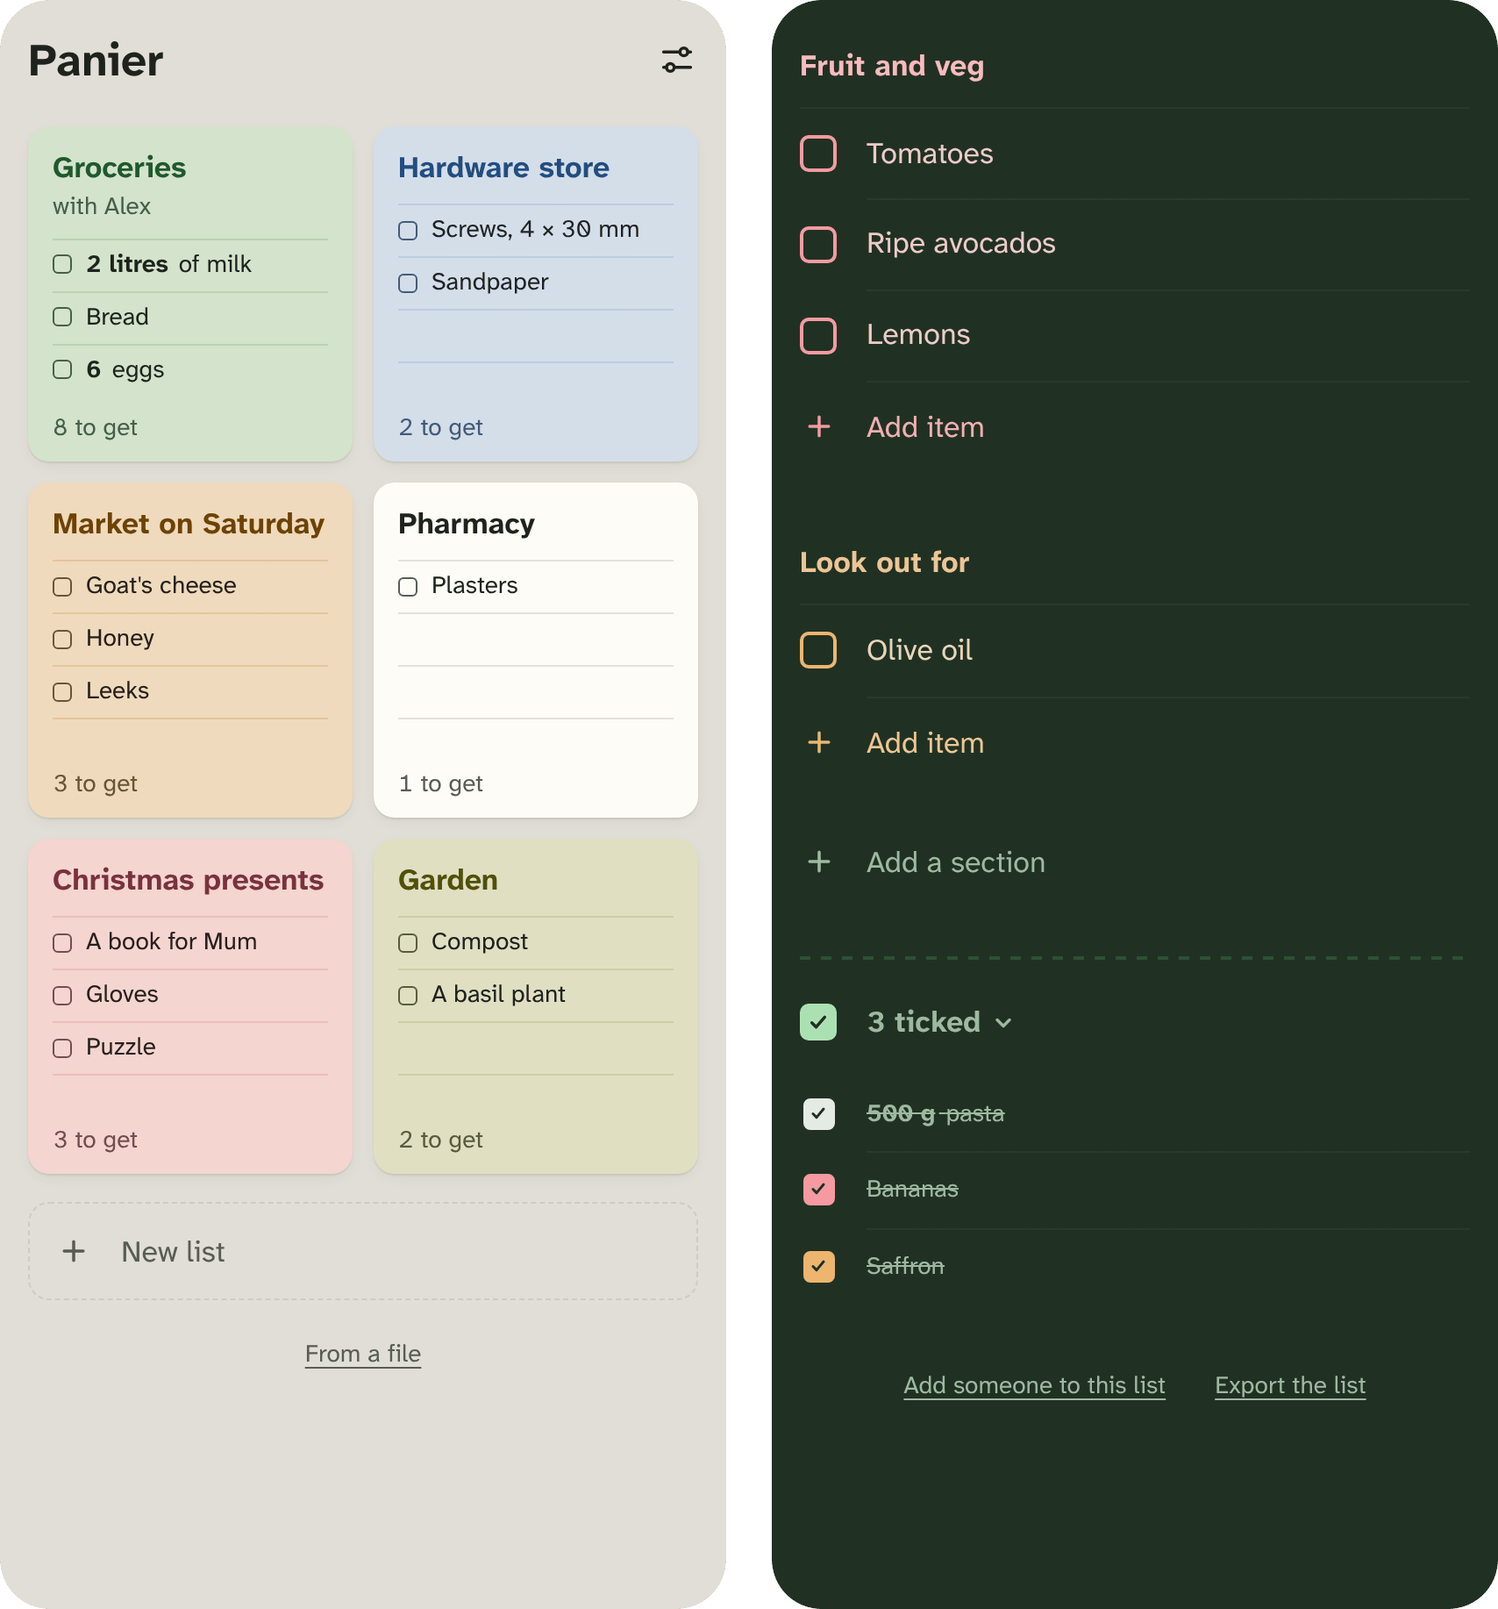
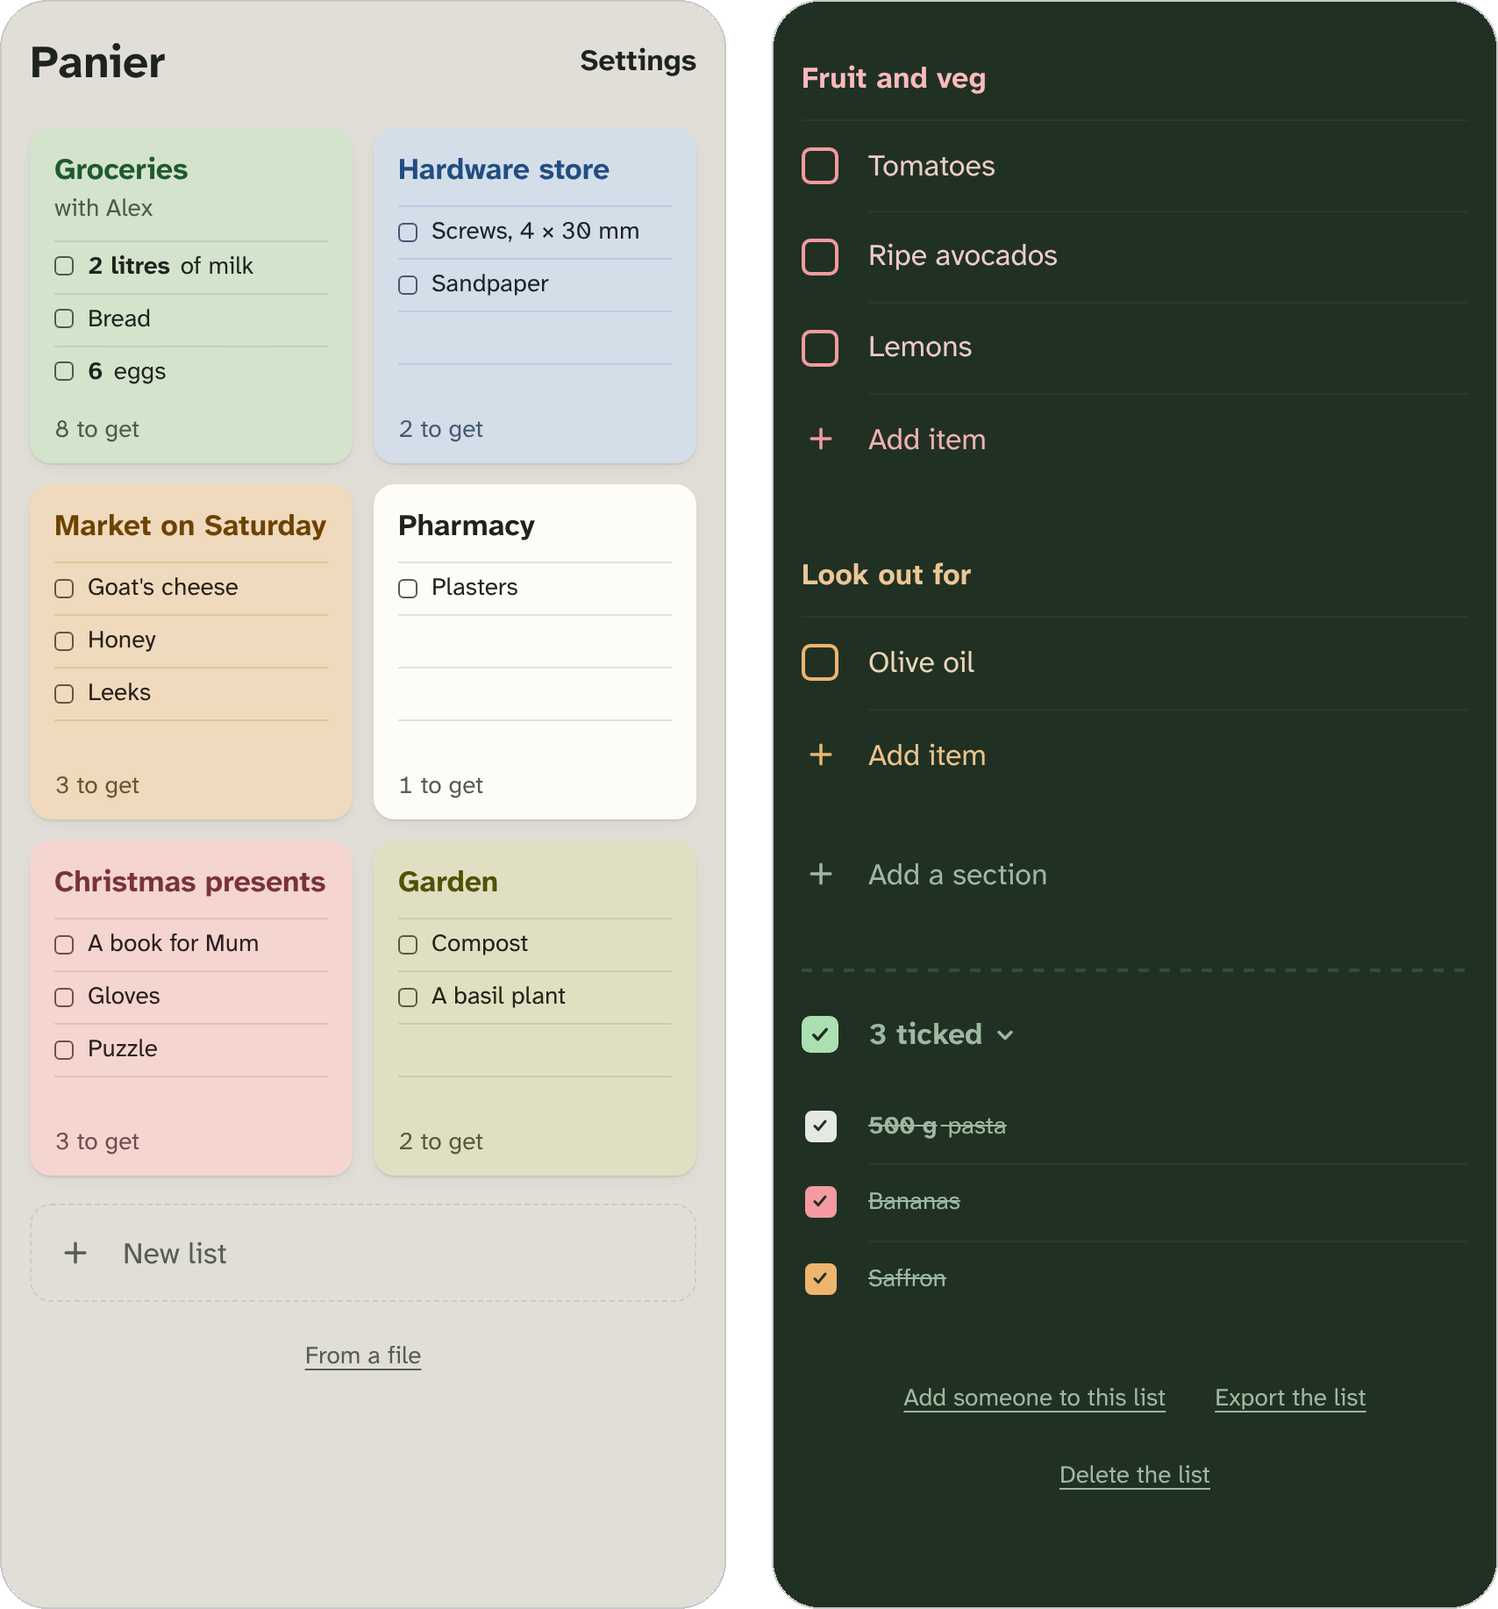
Lists and Settings in words, Delete the list at a list's foot, the old version cleared
- The headers say Lists and Settings in words, as the guide prefers,
  rather than two icons; their icons go from the page.
- Delete the list, at the foot of each list, asks as the lists page does,
  so a screen reader on a phone can delete a list without dragging it.
- Every list has come back from the old version, so what it left goes:
  migration v3 deletes its Durable Object class and their data on
  Cloudflare, each phone clears its old storage, and the reader no longer
  looks for its .txt export. Plain-text lists still read.
- The README picture shows the app as it is now.

diff --git a/web/index.html b/web/index.html
@@ -36,14 +36,12 @@
   <symbol id="i-plus" viewBox="0 0 20 20"><path d="M10 4v12M4 10h12" vector-effect="non-scaling-stroke"/></symbol>
   <symbol id="i-cross" viewBox="0 0 20 20"><path d="M5.5 5.5l9 9M14.5 5.5l-9 9" vector-effect="non-scaling-stroke"/></symbol>
   <symbol id="i-back" viewBox="0 0 20 20"><path d="M7.5 4.4L3.1 8.75l4.4 4.35M3.75 8.75h8.75a4.4 4.4 0 0 1 0 8.75H10" vector-effect="non-scaling-stroke"/></symbol>
-  <symbol id="i-settings" viewBox="0 0 20 20"><path d="M3 6h8.5M15.5 6H17M3 14h1.5M8.5 14H17" vector-effect="non-scaling-stroke"/><circle cx="13.5" cy="6" r="2" vector-effect="non-scaling-stroke"/><circle cx="6.5" cy="14" r="2" vector-effect="non-scaling-stroke"/></symbol>
-  <symbol id="i-lists" viewBox="0 0 20 20"><path d="M6.5 4.5V3.75c0-.69.56-1.25 1.25-1.25h7.5c.69 0 1.25.56 1.25 1.25v10c0 .69-.56 1.25-1.25 1.25h-.75M4.75 5.5h7.5c.69 0 1.25.56 1.25 1.25v10c0 .69-.56 1.25-1.25 1.25h-7.5c-.69 0-1.25-.56-1.25-1.25v-10c0-.69.56-1.25 1.25-1.25z" vector-effect="non-scaling-stroke"/></symbol>
 </svg>
 
 <main class="wrap" id="app" hidden>
   <div class="list-top">
     <h1 class="list-head"><span class="list-name" id="list-name" role="button" tabindex="0" data-fk="list-name"></span></h1>
-    <button type="button" class="ib lists-btn" id="lists-open" aria-label="Lists" title="Lists" data-fk="lists-open"><svg class="icon" width="22" height="22" aria-hidden="true"><use href="#i-lists"/></svg></button>
+    <button type="button" class="head-btn" id="lists-open" data-fk="lists-open">Lists</button>
   </div>
   <div id="list"></div>
   <form class="add-sec" id="add-sec-form" autocomplete="off">
@@ -67,6 +65,7 @@
   <footer class="foot">
     <button type="button" class="linkbtn" id="pair-open">Add someone to this list</button>
     <button type="button" class="linkbtn" id="export-btn">Export the list</button>
+    <button type="button" class="linkbtn" id="delete-open">Delete the list</button>
   </footer>
 </main>
 
@@ -74,7 +73,7 @@
 <main class="wrap lists" id="lists" hidden>
   <div class="lists-top">
     <h1>Panier</h1>
-    <button type="button" class="ib lists-btn" id="settings-open" aria-label="Settings" title="Settings" data-fk="settings-open"><svg class="icon" width="22" height="22" aria-hidden="true"><use href="#i-settings"/></svg></button>
+    <button type="button" class="head-btn" id="settings-open" data-fk="settings-open">Settings</button>
   </div>
   <p class="lists-msg" id="lists-msg" hidden></p>
   <!-- The lists in a grid, then a blank strip to start another on -->

diff --git a/web/app.css b/web/app.css
@@ -111,10 +111,14 @@ main.wrap { padding-block: 16px 104px; display: flex; flex-direction: column; ga
 :is(.list-head, .sec-head, .item) { -webkit-user-select: none; user-select: none; -webkit-touch-callout: none; }
 .list-top { display: flex; align-items: flex-start; gap: 4px; margin: -4px 0 0; }
 .list-head { flex: 1; min-width: 0; margin: 0; display: flex; font-size: 1.625rem; line-height: 1.4; color: var(--title); }
-/* The way to the lists page, at the right of the list's name: two sheets, one on the other */
-.lists-btn { flex: none; margin: 0 -10px 0 0; color: var(--title); }
+/* At the right of a page's title, in words, the way to what's around it: the lists page
+   from a list, Settings from the lists page */
+.head-btn {
+  flex: none; height: 44px; margin: 0 -12px 0 0; padding: 0 12px; border: 0; border-radius: 999px; background: none;
+  color: var(--title); font-weight: 700; cursor: pointer;
+}
 /* While the name is edited, it has the whole row */
-.list-top.editing .lists-btn { display: none; }
+.list-top.editing .head-btn { display: none; }
 .list-name { flex: 1; min-width: 0; padding: 4px 0; overflow-wrap: anywhere; cursor: text; outline: none; border-radius: 5px; }
 .list-name.editing { -webkit-user-select: text; user-select: text; box-shadow: inset 0 -2px 0 currentColor; border-radius: 0; }
 #list { display: flex; flex-direction: column; gap: 28px; }
@@ -222,7 +226,7 @@ main.wrap { padding-block: 16px 104px; display: flex; flex-direction: column; ga
 .sug-x-cell { display: flex; flex: none; }
 .sug-x { width: 48px; padding: 0; border: 0; background: none; color: var(--muted); display: grid; place-items: center; cursor: pointer; }
 .sug-x-cell[aria-selected="true"] .sug-x { color: var(--ink); box-shadow: inset 0 0 0 2px var(--ink); border-radius: 12px; }
-@media (hover: hover) { .sugopt:hover, .ib:hover { background-color: var(--press); } .bin:hover, .sug-x:hover { color: var(--danger); } }
+@media (hover: hover) { .sugopt:hover, .ib:hover, .head-btn:hover { background-color: var(--press); } .bin:hover, .sug-x:hover { color: var(--danger); } }
 .sugopt .t { color: var(--ink); overflow-wrap: anywhere; }
 .sugopt mark { background: none; color: inherit; font-weight: 700; }
 

diff --git a/web/md.js b/web/md.js
@@ -13,7 +13,7 @@
 //
 // Reading is lenient, so lists from elsewhere come in too: any heading below "#" is a
 // section, any bullet or numbered line an item, and so is a plain line, unless items
-// follow it, as section names did in the text files the first export wrote.
+// follow it, when it names a section, as plain-text lists often do.
 
 // Colours by name in files, by id in the app.
 const COLOURS = { ess: "ink", green: "green", teal: "teal", blue: "blue", long: "indigo", plum: "plum", rose: "rose", look: "amber", olive: "olive" };
@@ -39,8 +39,6 @@ const COLOUR = /\s*<!--\s*([a-z]+)\s*-->\s*$/i;
 const TASK = /^\s*(?:[-*+]|\d+[.)])\s+\[([ xX])\]\s+(.*)$/;
 const BULLET = /^\s*(?:[-*+•]|\d+[.)])\s+(.*)$/;
 const NOISE = /^\s*(?:>|\||<!--|-{3,}\s*$|\*{3,}\s*$|_{3,}\s*$)/; // quotes, tables, comments, rules
-const DATED = /,\s+\d{1,2}(?:er)?\s+\S+\s+\d{4}$/; // the first export's title: "Shopping list, 12 November 2026"
-const BOUGHT = /^(?:bought before|déjà achetés)$/i; // and its last section
 
 function named(s) {
   const m = COLOUR.exec(s);
@@ -94,18 +92,8 @@ export function fromMarkdown(text) {
     if (it) { add(it); continue; }
     if (NOISE.test(line)) continue;
     const plain = one(line), after = next(i);
-    if (!lists.length && DATED.test(plain) && !(after && itemOf(after))) { newList(plain.replace(DATED, ""), null); continue; }
     if (after && itemOf(after) && plain.length <= 60) { newSection(named(plain).name, named(plain).color); continue; }
     add({ text: plain, checked: false });
-  }
-  // The first export listed what was bought before in a section of its own: those items
-  // go back into the first section, still ticked.
-  for (const l of lists) {
-    const bought = l.sections.filter(s => s.name && BOUGHT.test(s.name) && s.items.every(i => i.checked));
-    if (!bought.length) continue;
-    l.sections = l.sections.filter(s => !bought.includes(s));
-    if (!l.sections.length) l.sections.push({ name: null, color: null, items: [] });
-    for (const s of bought) l.sections[0].items.push(...s.items);
   }
   return lists.filter(l => l.name || l.sections.some(s => s.items.length || s.name));
 }

diff --git a/web/lists.js b/web/lists.js
@@ -136,11 +136,12 @@ function moveSheet(lid, dir) {
   if (el) el.focus();
 }
 
-// A list is deleted only here, on the lists page, dropped on the zone at the foot or with
-// the Delete key, and only once asked. From this phone, the others keep it and its link
+// A list is deleted only once asked: on the lists page, dropped on the zone at the foot or
+// with the Delete key, or with Delete the list, at the foot of the list itself, which a
+// screen reader on a phone can reach. From this phone, the others keep it and its link
 // brings it back, and undo does too, until the app closes. For everyone, it asks again,
 // as nothing brings it back.
-function askDelete(lid) {
+export function askDelete(lid) {
   const e = store.lists().find(x => x.lid === lid);
   if (!e) return;
   const name = e.name || t("Shopping list"), w = e.with, others = !!(w && (w.names.length || w.nameless));

diff --git a/web/store.js b/web/store.js
@@ -16,6 +16,10 @@
 
 const INDEX = "panier2"; // this phone's id and name, and its lists
 const ENTRY = "panier2:"; // one list, by its id on this phone
+// The version before several lists kept its one list, key included, under these names.
+// Every list has come back by import, so what it left is cleared; this line can go once
+// every phone has opened this version.
+try { for (const k of ["panier", "panier-drafts", "panier-basket-open", "panier-dragged-once", "panier-style"]) localStorage.removeItem(k); } catch (_) {}
 const FORMAT = 1; // what this app reads; a list can ask for more with "@list" "format"
 const MAX_UNDO = 100;
 const text = new TextEncoder();

diff --git a/web/app.js b/web/app.js
@@ -13,6 +13,7 @@ import { openPair, peopleChanged } from "./share.js";
 import { keepList } from "./settings.js";
 
 $("#lists-open").addEventListener("click", showLists);
+$("#delete-open").addEventListener("click", () => lists.askDelete(state.lid)); // which shows the lists page once it's gone
 // Undo is the list's on a list, and on the lists page brings back a list deleted from this phone.
 const undo = () => (state.view === "lists" ? lists.undoRemove() : list.undo());
 const redo = () => { if (state.view === "list") list.redo(); };

diff --git a/worker/index.js b/worker/index.js
@@ -141,10 +141,6 @@ async function createList(req, env) {
   return created ? new Response(null, { status: 201, headers: HEADERS }) : text(409, "list already exists");
 }
 
-// Lists stored by the version before ListV2. Nothing reaches them any more; the class
-// stays until a migration deletes it, with their data, once every list has been restored.
-export class List extends DurableObject {}
-
 export class ListV2 extends DurableObject {
   constructor(ctx, env) {
     super(ctx, env);

diff --git a/web/i18n.js b/web/i18n.js
@@ -30,6 +30,7 @@ const FR = {
   "Data": "Données",
   "Keep them on this phone": "Les garder sur ce téléphone",
   "Export the list": "Exporter la liste",
+  "Delete the list": "Supprimer la liste",
   "Export all lists": "Exporter toutes les listes",
   "Set up another phone": "Préparer un autre téléphone",
   "You": "Vous",

diff --git a/docs/using.md b/docs/using.md
@@ -14,18 +14,18 @@ Everything the app does, in detail. The [README](../README.md) has the short ver
 
 A phone holds any number of lists, each shared with its own people. The app opens on the list last used.
 
-- **The lists page** is reached with the sheets at the top right of a list, or the phone's back gesture. The lists lie there side by side, two to a row, three on a wider screen, each a sheet of its own paper, lying on a desk a shade deeper: its name, who else has it, the first three things to get, and how many there are, as this phone last saw them. Lists not on screen catch up as the page shows.
+- **The lists page** is reached with *Lists*, at the top right of a list, or the phone's back gesture. The lists lie there side by side, two to a row, three on a wider screen, each a sheet of its own paper, lying on a desk a shade deeper: its name, who else has it, the first three things to get, and how many there are, as this phone last saw them. Lists not on screen catch up as the page shows.
 - **Open** a list with a tap.
 - **New list:** type a name on the blank strip under the sheets; the new list opens ready to write on. The server makes it on the strength of a list this phone already has; if it won't, it asks for the setup code.
 - **Move** a list: hold it, then drag it to its new place. From a keyboard, Alt and an arrow move it one place earlier or later.
-- **Delete** a list: drag it onto the zone that appears at the foot, or press Delete on it from a keyboard. Lists are deleted only here, and only once asked. *Delete* takes it off this phone: the others keep it, its link brings it back, and so does Undo, at the bottom right. *Delete for everyone*, under it, asks again, then closes the list on the server: other phones say *List closed*. That can't be undone.
+- **Delete** a list: drag it onto the zone that appears at the foot, press Delete on it from a keyboard, or use *Delete the list*, at the foot of the list itself. It always asks first. *Delete* takes it off this phone: the others keep it, its link brings it back, and so does Undo, at the bottom right. *Delete for everyone*, under it, asks again, then closes the list on the server: other phones say *List closed*. That can't be undone.
 - **Settings** is at the top right of the lists page.
 
 ## The page
 
 The list is written on the page itself, like paper: one left edge, ruled lines between items and under section names, and an underline where you type. Only what is lifted off the page has a shadow: something being dragged, the undo button, the sheets.
 
-- **The list's name** is the title at the top, *Shopping list* to start with. Tap it to rename it. It also names the exported file. At its right, the sheets lead to the lists page.
+- **The list's name** is the title at the top, *Shopping list* to start with. Tap it to rename it. It also names the exported file. At its right, *Lists* leads to the lists page.
 - **The list's colour.** While you rename the list, colours show under its name: white and eight hues. The paper is warm paper dyed with the colour, the ruled lines a deeper dye, the title a deep shade of it, and the writing leans its way. The browser's bars follow, and the app opens in the colour without a flash of white.
 - **The eight colours weigh the same.** Each is a single hue, and every tone of it, from paper to tick box, is that hue at a lightness set by what it's for, so no colour shouts or fades beside another, in light or dark.
 - Every phone sees the name and colour, and undo puts the old ones back.
@@ -107,7 +107,7 @@ Lists go out and come in as Markdown checklists, readable in any notes app:
 
 - **Export the list**, at the bottom of a list, saves it as a `.md` file named after it.
 - **Export all lists**, in Settings, saves every list in one file, each under its own `#`.
-- **From a file**, on the lists page, brings in a list, or several from one file. It reads any Markdown checklist: other bullets, numbered lines, headings of any level, plain lines. It also reads the `.txt` files the earlier *Export the list* saved. Items bought before come in as suggestions, not ticked.
+- **From a file**, on the lists page, brings in a list, or several from one file. It reads any Markdown checklist: other bullets, numbered lines, headings of any level, plain lines, where a line followed by items names a section. Items bought before come in as suggestions, not ticked.
 - **Pasting several lines** into *Add item* adds one item per line, in that section, in one step to undo. Names already on the list are left as they are.
 
 ## People

diff --git a/docs/roadmap.md b/docs/roadmap.md
@@ -25,7 +25,7 @@ From now on, stored data only gains new kinds of record, under `@`, which older 
 
 ### Several lists
 
-The lists page is the surface the lists lie on, side by side, each list a small sheet of its own paper, with its name, who else has it, the first three things left to get, and how many there are. Lists are deleted only there, and only once asked. It is reached from the *Lists* control at the right of a list's header, or the back gesture, and it holds Settings. The app opens on the last list used.
+The lists page is the surface the lists lie on, side by side, each list a small sheet of its own paper, with its name, who else has it, the first three things left to get, and how many there are. Lists are deleted there, or at the foot of the list itself, and only once asked. It is reached from the *Lists* control at the right of a list's header, or the back gesture, and it holds Settings. The app opens on the last list used.
 
 Only the list on screen keeps a live connection. The others catch up when the lists page shows, and send what they have waiting when the connection returns.
 
@@ -44,7 +44,7 @@ A phone that holds a list on a server may create more lists there, proving it wi
 - [ ] Ripe avocados
 ```
 
-`#` is the list's name, `##` each section in order, `- [ ]` an item to get, `- [x]` one bought before, kept under its section so unticking puts it back there. Colours ride in comments after the headings, which Markdown hides: they work for several lists in one file, which a block at the top couldn't. *Export all lists* writes one file with a `#` per list. The reader also takes any Markdown checklist, plain lines, and the `.txt` files the earlier *Export the list* wrote. Pasting several lines into *Add item* adds one item per line.
+`#` is the list's name, `##` each section in order, `- [ ]` an item to get, `- [x]` one bought before, kept under its section so unticking puts it back there. Colours ride in comments after the headings, which Markdown hides: they work for several lists in one file, which a block at the top couldn't. *Export all lists* writes one file with a `#` per list. The reader also takes any Markdown checklist and plain lines. Pasting several lines into *Add item* adds one item per line.
 
 ### More people
 
@@ -73,4 +73,4 @@ The `next` branch deploys to `panier-next`, a Worker of its own on the same `wor
 1. Pass the import gate in the test copy, with every export restored there.
 2. Merge `next` into `main`. Each phone opens on an empty lists page.
 3. One person imports each export, then shares each list with the others. Save the new links.
-4. Once every list is back, a Wrangler migration deletes the old Durable Object class and its data. Until then, reverting the merge brings the old Panier back as it was.
+4. Once every list is back, a Wrangler migration deletes the old Durable Object class and its data, and each phone clears what the old version left. Until then, reverting the merge brings the old Panier back as it was. Done: every list came back, so `v3` in `wrangler.jsonc` deleted the old class.

diff --git a/README.md b/README.md
@@ -56,7 +56,7 @@ Then, on the phones:
 - **Move:** hold an item, or a section's name, for half a second, then drag.
 - **Sections:** tap a section's name to rename it or change its colour. *Add a section* is below the last one.
 - **The list:** tap its name to rename it or choose its paper's colour.
-- **Lists:** the sheets at the top right of a list, or the back gesture, lead to the lists page: tap a list to open it, *New list* to start one, hold one to move it, or drop it at the foot to delete it, which asks first.
+- **Lists:** *Lists*, at the top right of a list, or the back gesture, leads to the lists page: tap a list to open it, *New list* to start one, hold one to move it, or drop it at the foot to delete it, which asks first. *Delete the list*, at the foot of a list, does the same.
 - **Import:** *From a file* on the lists page brings in a Markdown or text list; several lines pasted into *Add item* become several items.
 - **Undo and redo:** the buttons at the bottom right.
 - **Settings**, on the lists page: your name, light or dark, a compact layout, exporting every list, and setting up another phone.
